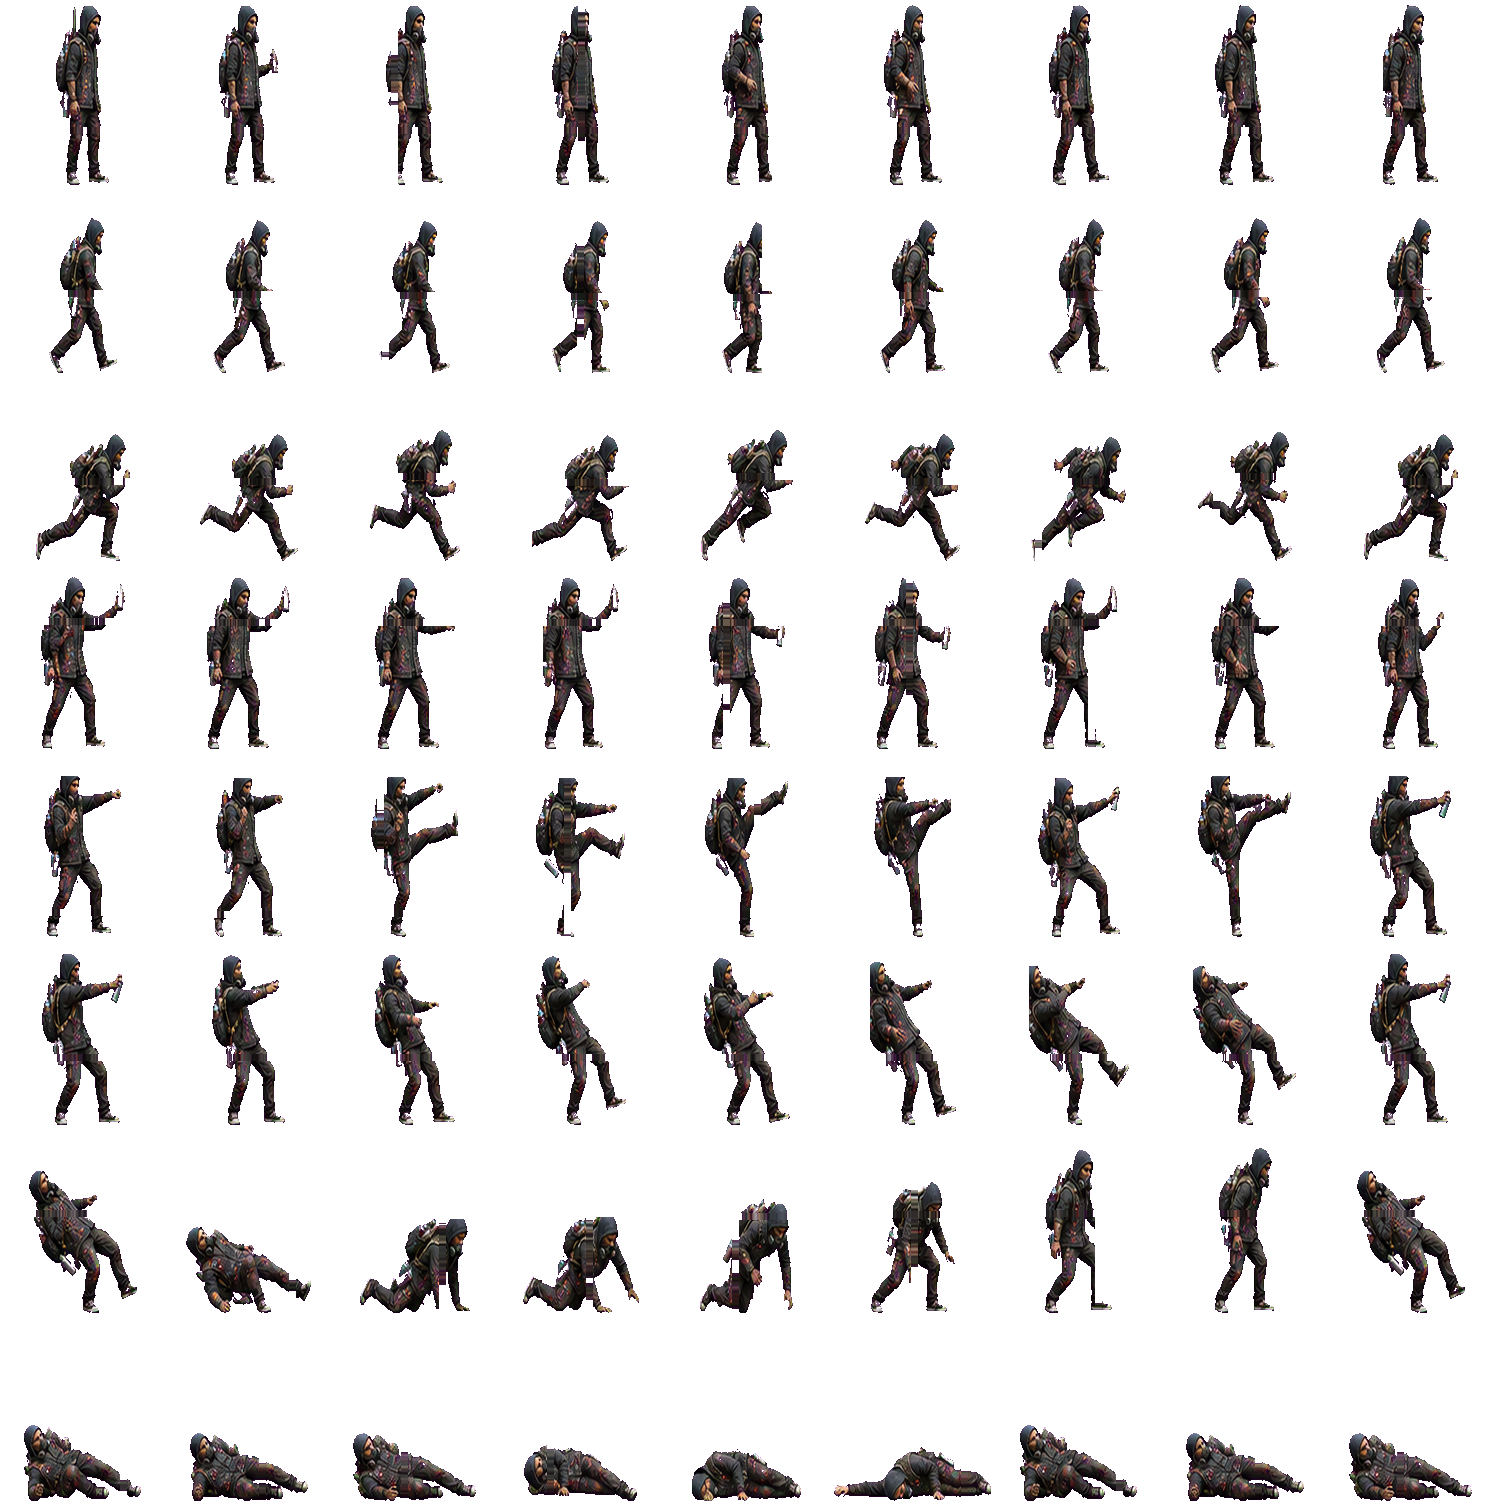
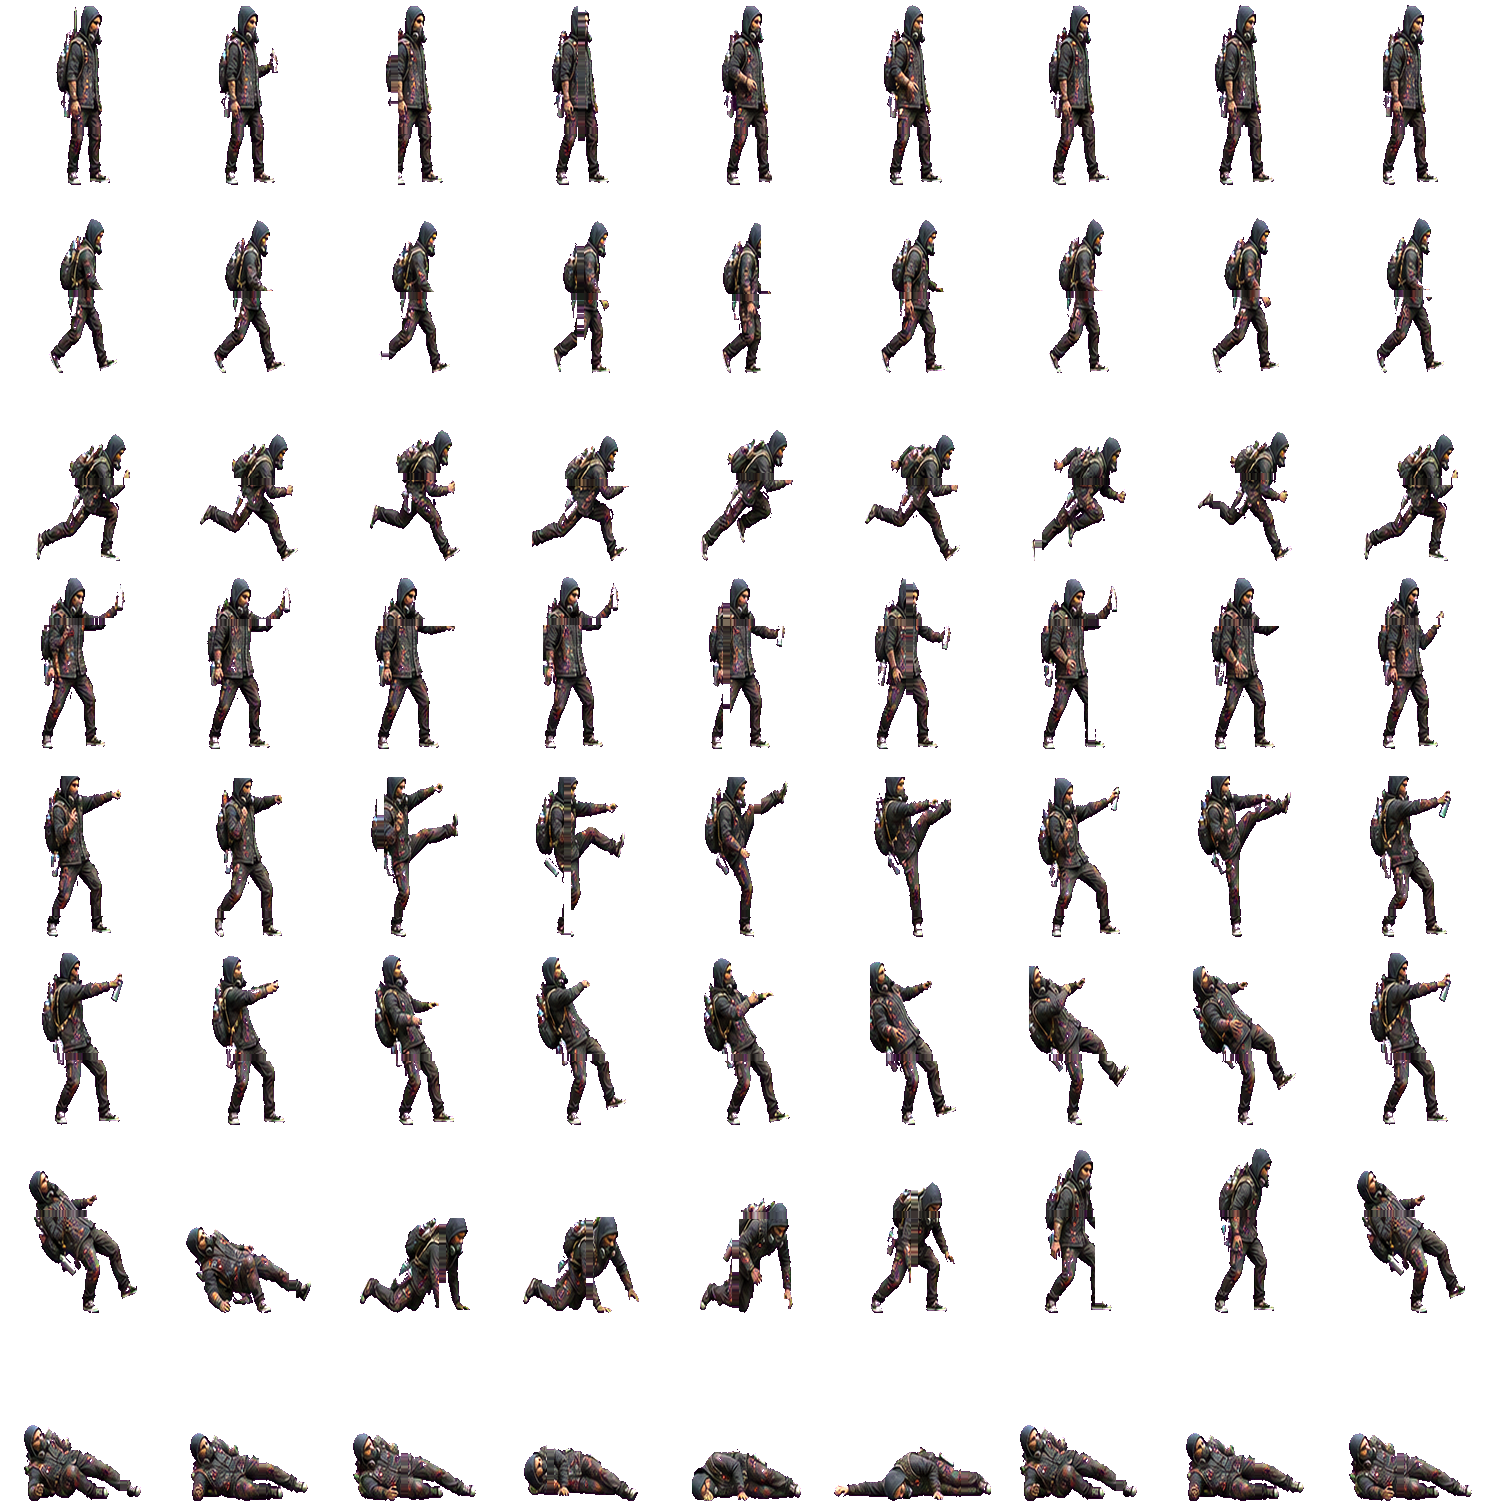
fix: graphical anomaly sweep — keyer, fringes, occluders, weapon anchor (Hito 062)
Full screenshot audit across screens/states, isolating each defect before
fixing. Dark-magenta background patches survived the previous keyer floor
(r,b>180) and rendered as opaque pink slabs — threshold now clears them.
The runtime additive exposure overlay amplified despill edges into purple
fringes around silhouettes (proven by with/without probes), so it is
removed and exposure is baked into the sheets at build time (x1.22, same
geometry). Front-layer props now fade to a ghost when they occlude the
player so the lamp post never hides the fight, and the held weapon anchors
at the hand of the current fighter proportions instead of the knee.

Claude-Session: https://claude.ai/code/session_015d4moUT3CZTVWv6A6eLtPh

diff --git a/src/game/scenes/GameScene.ts b/src/game/scenes/GameScene.ts
@@ -76,9 +76,6 @@ const SPRITE_ORIGIN_Y = 0.98;
 // puts a grunt (68) exactly at the hero's height (272px); bulkier archetypes
 // (tank 80, miniboss 90, boss 100) overtop him in proportion.
 const ENEMY_SCREEN_HEIGHT_K = 4.0;
-// The character sheets are rendered darker than the photoreal backdrops; an
-// additive self-overlay lifts their exposure so they read as lit subjects.
-const CHARACTER_LIFT_ALPHA = 0.26;
 // Breakable art ships as 362×181 frames rendered 1:1 (a crate ~2× the hero).
 // Calibrate so a destructible reads roughly waist-height beside Mostasa.
 const BREAKABLE_RENDER_SCALE = 0.5;
@@ -117,7 +114,6 @@ export class GameScene extends Phaser.Scene {
   private playerVel: Vec3 = { x: 0, y: 0, z: 0 };
   private playerFacing: 1 | -1 = 1;
   private playerSprite!: Phaser.GameObjects.Sprite;
-  private playerLift!: Phaser.GameObjects.Sprite;
   private playerShadow!: Phaser.GameObjects.Graphics;
   private groundGraphics!: Phaser.GameObjects.Graphics;
   private debugText!: Phaser.GameObjects.Text;
@@ -134,7 +130,6 @@ export class GameScene extends Phaser.Scene {
   private enemyShadows: Phaser.GameObjects.Graphics[] = [];
   private enemySprites: Phaser.GameObjects.Sprite[] = [];
   private enemyLabels: Phaser.GameObjects.Text[] = [];
-  private enemyLifts: Phaser.GameObjects.Sprite[] = [];
   /** world-anchored solid prop footprints for this stage */
   private propSolids: SolidVolume[] = [];
 
@@ -435,8 +430,8 @@ export class GameScene extends Phaser.Scene {
   private updateHeldWeaponSprite(screenX: number, screenY: number): void {
     if (!this.heldWeaponSprite || !this.equippedWeapon) return;
     const swinging = this.fsm.isAttacking();
-    const handX = screenX + this.playerFacing * (swinging ? 34 : 20);
-    const handY = screenY - 62;
+    const handX = screenX + this.playerFacing * (swinging ? 48 : 28);
+    const handY = screenY - 118; // hand height on the current ~273px fighter
     this.heldWeaponSprite
       .setPosition(handX, handY)
       .setFlipX(this.playerFacing === -1)
@@ -716,7 +711,6 @@ export class GameScene extends Phaser.Scene {
     const sprite = this.add.sprite(0, 0, spriteKey);
     sprite.setOrigin(0.5, SPRITE_ORIGIN_Y);
     playState(sprite, spriteKey, 'idle');
-    const lift = this.createLiftSprite(spriteKey);
     const hud = this.add.graphics().setDepth(1);
     const label = this.add
       .text(0, 0, 'ELITE', {
@@ -734,7 +728,6 @@ export class GameScene extends Phaser.Scene {
     this.enemySprites.push(sprite);
     this.enemyGraphics.push(hud);
     this.enemyLabels.push(label);
-    this.enemyLifts.push(lift);
   }
 
   private createGround(): void {
@@ -806,42 +799,11 @@ export class GameScene extends Phaser.Scene {
     }
   }
 
-  /**
-   * An additive self-overlay drawn on top of a character to lift its exposure:
-   * the sheets render darker than the photoreal stages, and this brings the
-   * fighters up to "lit subject" levels without touching the source art.
-   */
-  private createLiftSprite(textureKey: string): Phaser.GameObjects.Sprite {
-    const l = this.add.sprite(0, 0, textureKey);
-    l.setOrigin(0.5, SPRITE_ORIGIN_Y);
-    l.setBlendMode(Phaser.BlendModes.ADD);
-    l.setAlpha(CHARACTER_LIFT_ALPHA);
-    return l;
-  }
-
-  /** Sync the exposure-lift overlay to its character sprite exactly. */
-  private syncLift(
-    lift: Phaser.GameObjects.Sprite,
-    sprite: Phaser.GameObjects.Sprite,
-    screenX: number,
-    screenY: number,
-    depth: number,
-  ): void {
-    lift.setFrame(sprite.frame.name);
-    lift.setPosition(screenX, screenY);
-    lift.setFlipX(sprite.flipX);
-    lift.setScale(sprite.scaleX, sprite.scaleY);
-    lift.setDepth(depth + 0.5);
-    lift.setVisible(sprite.visible);
-    lift.setAlpha(sprite.visible ? CHARACTER_LIFT_ALPHA * sprite.alpha : 0);
-  }
-
   private createPlayerSprite(): void {
     this.playerShadow = this.add.graphics();
     this.playerSprite = this.add.sprite(0, 0, 'mostasa');
     this.playerSprite.setOrigin(0.5, SPRITE_ORIGIN_Y);
     this.playerSprite.setScale(PLAYER_SPRITE_SCALE);
-    this.playerLift = this.createLiftSprite('mostasa');
     playState(this.playerSprite, 'mostasa', 'idle');
     this.updatePlayerSpritePosition();
   }
@@ -880,7 +842,6 @@ export class GameScene extends Phaser.Scene {
     this.playerSprite.setPosition(screenX, screenY);
     this.playerSprite.setFlipX(this.playerFacing === -1);
     this.playerSprite.setDepth(this.playerPos.y);
-    this.syncLift(this.playerLift, this.playerSprite, screenX, screenY, this.playerPos.y);
 
     // Damage flash tint
     if (this.fsm.currentState === PLAYER_STATE.HURT) {
@@ -911,8 +872,7 @@ export class GameScene extends Phaser.Scene {
       const shadow = this.enemyShadows[i];
       const sprite = this.enemySprites[i];
       const label = this.enemyLabels[i];
-      const lift = this.enemyLifts[i];
-      if (!enemy || !hud || !shadow || !sprite || !label || !lift) continue;
+      if (!enemy || !hud || !shadow || !sprite || !label) continue;
 
       if (enemy.dead) {
         // One-time elite kill bonus (§10).
@@ -924,7 +884,6 @@ export class GameScene extends Phaser.Scene {
         shadow.setVisible(false);
         sprite.setVisible(false);
         label.setVisible(false);
-        lift.setVisible(false);
         continue;
       }
 
@@ -954,7 +913,6 @@ export class GameScene extends Phaser.Scene {
       sprite.setFlipX(enemy.facing === -1);
       sprite.setDepth(enemy.pos.y);
       playState(sprite, enemy.spriteKey, enemy.fsm.currentState);
-      this.syncLift(lift, sprite, screenX, screenY, enemy.pos.y);
 
       const state = enemy.fsm.currentState;
       // Hurt flash wins; otherwise the sprite carries its stage palette tint so
@@ -1766,7 +1724,7 @@ export class GameScene extends Phaser.Scene {
     this.camera.update(delta);
 
     this.stageBg?.update(this.camera.worldX);
-    this.props?.update(this.camera.worldX);
+    this.props?.update(this.camera.worldX, this.playerSprite?.x);
     this.updatePlayerSpritePosition();
     this.updateEnemySprites();
     this.updateBreakableSprites();

diff --git a/src/game/systems/PropSystem.ts b/src/game/systems/PropSystem.ts
@@ -71,8 +71,12 @@ export class PropSystem {
     return this.items.length > 0;
   }
 
-  /** Scroll every prop for the current camera position, culling off-screen. */
-  update(cameraWorldX: number): void {
+  /**
+   * Scroll every prop for the current camera position, culling off-screen.
+   * Front-layer props that overlap the player's screen position fade to a
+   * ghost so they never hide the fight (classic brawler occluder handling).
+   */
+  update(cameraWorldX: number, playerScreenX?: number): void {
     for (const { def, sprite, parallax } of this.items) {
       const x = propScreenX(def.worldX, cameraWorldX, parallax);
       const halfW = sprite.displayWidth / 2 + CULL_MARGIN;
@@ -82,6 +86,12 @@ export class PropSystem {
       }
       sprite.setVisible(true);
       sprite.setX(x);
+
+      if (def.layer === 'front' && playerScreenX !== undefined) {
+        const overlap = Math.abs(x - playerScreenX) < sprite.displayWidth / 2 + 46;
+        const target = overlap ? 0.38 : (def.alpha ?? 1);
+        sprite.setAlpha(sprite.alpha + (target - sprite.alpha) * 0.18);
+      }
     }
   }
 

diff --git a/src/game/data/AnimationData.ts b/src/game/data/AnimationData.ts
@@ -32,7 +32,7 @@ export const CHARACTER_GRIDS: Record<string, CharacterGrid> = {
   enemy_001: { frameWidth: 162, frameHeight: 182, cols: 10, rows: 8 },
   enemy_002: { frameWidth: 170, frameHeight: 200, cols: 9, rows: 8 },
   enemy_003: { frameWidth: 150, frameHeight: 198, cols: 9, rows: 8 },
-  enemy_004: { frameWidth: 126, frameHeight: 176, cols: 9, rows: 9 },
+  enemy_004: { frameWidth: 126, frameHeight: 174, cols: 9, rows: 9 },
   enemy_005: { frameWidth: 108, frameHeight: 168, cols: 10, rows: 9 },
   enemy_006: { frameWidth: 130, frameHeight: 168, cols: 10, rows: 9 },
   enemy_007: { frameWidth: 166, frameHeight: 188, cols: 9, rows: 8 },

diff --git a/docs/PRODUCTION_STATE.md b/docs/PRODUCTION_STATE.md
@@ -921,6 +921,32 @@
   por arriba y aterriza en x=780. Captura de composición adjunta
 - 440 tests en verde (34 archivos); typecheck/lint/build limpios
 
+### HITO 062 — Auditoría gráfica: barrido completo y corrección de anomalías ✅
+- Pedido: "corrige todas las anomalías gráficas". Metodología: barrido de
+  capturas por pantalla/estado (título, selector, combate mixto, golpe
+  activo, combo, salto, arma en mano, daño recibido, pausa), triaje de cada
+  defecto con prueba de aislamiento, y corrección verificada
+- **Parches magenta opacos** (regresión del endurecimiento de bordes): los
+  magentas oscuros del fondo caían en la rama de despill y quedaban como
+  slabs rosas. Umbral del keyer corregido (`magentaness > 75 && r,b > 110`
+  limpia también los tonos oscuros); el bbox de enemy_004 se achicó 2px al
+  desaparecer el slab (confirmación objetiva)
+- **Flecos violetas en siluetas** (aislado con probes con/sin overlay): el
+  lift aditivo de runtime amplificaba los bordes de despill en magenta.
+  Eliminado el lift por completo; la exposición ahora se **hornea en el
+  asset** (×1.22 en `process-sprites`, geometría idéntica verificada) — un
+  solo sprite por personaje, cero artefactos de composición
+- **Prop frontal tapando la pelea**: el farol ocluía a los luchadores. Los
+  props frontales ahora se desvanecen a alpha 0.38 (lerp suave) cuando se
+  superponen con la posición del jugador — manejo clásico de oclusores
+- **Arma en mano a la altura de la rodilla**: offset recalibrado a la mano
+  del cuerpo actual (−118px sobre los pies, con pose de swing más amplia)
+- **No-anomalías verificadas** (evitando falsos positivos): el "parche rosa"
+  del speedster es su mochila roja (arte legítimo, confirmado con primer
+  plano en solitario); los números de daño ya renderizan por encima de los
+  personajes (depth y+400); el menú de pausa está limpio
+- 440 tests en verde; typecheck/lint/build limpios
+
 ## HITOS PENDIENTES
 
 - ... (hitos 052-060)
